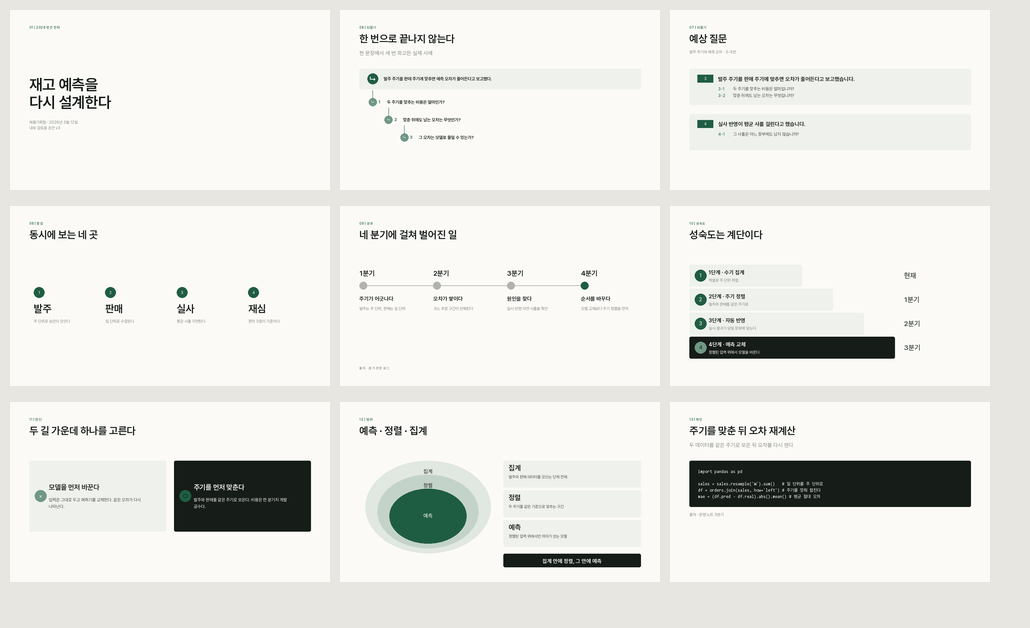
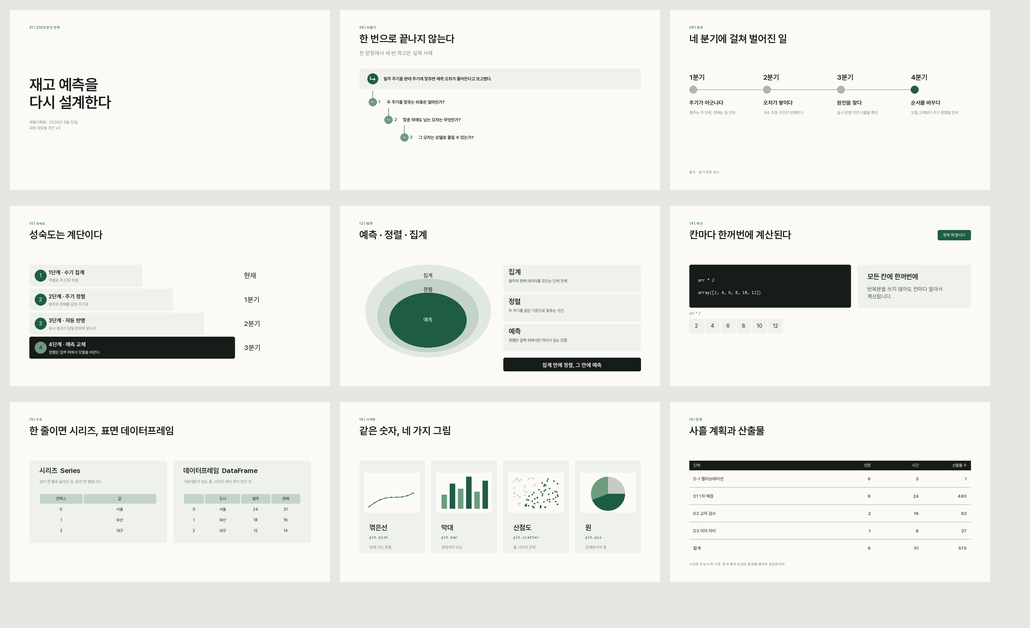
2차시 덱에서 배운 것 — code_explain · cellgrid · gallery · 활동 칩
사용자가 만족한 2차시 덱(38장)을 구조 분류해 없던 패턴 셋을 가져왔다.

code_explain (19쪽 외 12장) — 코드 가르치는 장의 주력
- 왼쪽 어두운 판에 고정폭 코드, 오른쪽 tint 판에 요지 + 사람 말 설명.
  코드만 보여 주면 학생이 무엇을 봐야 할지 모른다
- 두 판을 같은 높이로 맞춘다. 코드가 짧아도 설명 판이 혼자 뜨지 않게
- 아래 cells 로 배열 칸(43pt 정사각, step 47.5)을 깔면 변화가 눈에 보인다

cellgrid (23쪽) — 자료구조를 칸으로 그려 가르친다
- 표를 '보여 주는' table 과 다르다. 구조를 '설명하는' 그림이라
  머리 칸만 진한 톤(accent_mid)으로 띄우고 나머지는 tint 로 둔다
- 칸 높이 28, 사이 4 (실측 step 32.4). 열 너비는 내용 비율로 준다

gallery (30쪽) — 같은 것을 여러 방식으로
- 한 칸 = 그림 + 이름 + 코드 + 한 줄 설명. 패널 194x284, 사이 20, 그림 높이 121
- "개념 하나 + 시각 자료 하나" 원칙을 n 칸으로 반복한 형태다

활동 칩 (kind:)
- 제목 줄 오른쪽에 붙는다. 눈썹이 '어느 장인지'라면 이건 '무엇을 하는 장인지'다

미리보기 버그 수정
- raster() 가 두 번 정의돼 뒤의 것이 앞을 덮고 있었다. 중복 제거
- 도형·그림에 생성 순서(seq)를 남기고 그 순서대로 그린다.
  전에는 그림을 먼저 깔고 도형을 나중에 그려 패널이 그림을 덮었다.
  image_full 의 판이 그림 위에 오는 것도 이 순서로 보장된다

레이아웃 21종. 예제 26장이 두 프로파일 모두에서 통과한다.

diff --git a/scripts/build.py b/scripts/build.py
@@ -92,6 +92,13 @@ class L:
         if sl.get("runner"):
             d.text(s, "micro", col_x(9), self.eyebrow_y, span_w(4), 15,
                    sl["runner"], color="muted", align="right", tag="runner")
+        if sl.get("kind"):
+            # 실습·활동 표시. 눈썹이 '어느 장인지'라면 이건 '무엇을 하는 장인지'다
+            SH = d.spec["shapes"]
+            w = block_w(sl["kind"], d.spec["styles"]["small"],
+                        d.spec["fonts"]["body"]) + 34
+            d.chip(s, content_r() - w, self.title_y + 4, w, SH["eyebrow_chip_h"],
+                   sl["kind"], color="accent", text_color="ground", style="small")
         if sl.get("title"):
             st = d.spec["styles"][title_style]
             t = self.balance(sl["title"], span_w(span), title_style)
@@ -685,6 +692,145 @@ def code(d, s, m, sl):
                color="muted", tag="caption")
 
 
+def code_explain(d, s, m, sl):
+    """코드 왼쪽, 설명 오른쪽. 2차시 덱의 주력 구성(16~27쪽)이다.
+
+    코드는 어두운 판에 고정폭으로, 설명은 tint 판에 사람 말로. 둘을 같은 높이로 맞춘다.
+    아래에 배열 칸(cells)을 두면 '무엇이 어떻게 바뀌는지'가 눈에 보인다.
+    """
+    g = L(d)
+    SH = d.spec["shapes"]
+    g.head(s, sl, span=12)
+    cw, ew = span_w(7), span_w(5)
+    cx, ex = col_x(1), col_x(8)
+
+    raw = [str(l) for l in (sl.get("code") or [])]
+    col = sl.get("comment_col", SH["code_comment_col"])
+    lines = []
+    for l in raw:
+        if "#" in l and not l.lstrip().startswith("#"):
+            h_, n_ = l.split("#", 1)
+            h_ = h_.rstrip()
+            lines.append(h_ + " " * max(1, col - dw(h_)) + "#" + n_)
+        else:
+            lines.append(l)
+    cst = d.spec["styles"]["code"]
+    widest = max((block_w(l, cst, d.spec["fonts"]["mono"]) for l in lines), default=0)
+    if widest > cw - SH["code_pad_x"] * 2:
+        warn(f"slide {d._slide_i}: 코드가 판을 넘는다 — 주석 칸을 줄이거나 줄을 나눠라")
+
+    eh_t = g.bh(sl.get("point", ""), ew - 60, "h2") if sl.get("point") else 0
+    eh_b = g.bh(sl.get("explain", ""), ew - 60, "lead") if sl.get("explain") else 0
+    ph = max(len(lines) * cst["size"] * cst["leading"] + SH["code_pad_y"] * 2,
+             eh_t + (12 + eh_b if eh_b else 0) + 44)
+    y = g.block
+    d.panel(s, cx, y, cw, ph, color="figure", radius=SH["panel_radius"])
+    d.text(s, "code", cx + SH["code_pad_x"], y + (ph - len(lines) * cst["size"]
+           * cst["leading"]) / 2, cw - SH["code_pad_x"] * 2,
+           len(lines) * cst["size"] * cst["leading"], lines, color="ground",
+           accent_paras=tuple(i for i, l in enumerate(lines) if l.lstrip().startswith("#")),
+           tag="code")
+    d.panel(s, ex, y, ew, ph, radius=SH["panel_radius"])
+    ty = y + (ph - (eh_t + (12 + eh_b if eh_b else 0))) / 2
+    if eh_t:
+        d.text(s, "h2", ex + 30, ty, ew - 60, eh_t, sl["point"], tag="explain-point")
+    if eh_b:
+        d.text(s, "lead", ex + 30, ty + eh_t + 12, ew - 60, eh_b, sl["explain"],
+               color="ink2", tag="explain-body")
+
+    cells = sl.get("cells") or []
+    if cells:
+        cy = y + ph + 34
+        if sl.get("cells_label"):
+            d.text(s, "small", cx, cy - 26, span_w(6), 20, sl["cells_label"],
+                   color="muted", tag="cells-label")
+        cs, gp = SH["chipcell"], SH["chipcell_gap"]
+        for i, v in enumerate(cells[:14]):
+            d.chip(s, cx + i * (cs + gp), cy, cs, cs, str(v),
+                   color="accent_tint", text_color="figure", style="lead")
+
+
+def cellgrid(d, s, m, sl):
+    """자료구조를 칸으로 그려 가르친다. 2차시 23쪽 — 시리즈와 데이터프레임.
+
+    표를 '보여 주는' table 과 다르다. 이건 구조를 '설명하는' 그림이라
+    머리 칸만 진한 톤으로 띄우고 나머지는 tint 로 둔다.
+    """
+    g = L(d)
+    SH = d.spec["shapes"]
+    g.head(s, sl, span=12)
+    blocks = (sl.get("blocks") or [])[:2]
+    if not blocks:
+        return
+    n = len(blocks)
+    pw = (span_w(12) - 20) / n if n > 1 else span_w(12)
+    ch, gp = SH["cell_h"], SH["cell_gap"]
+    maxrows = max(len(b.get("rows") or []) for b in blocks)
+    ph = 44 + 26 + 24 + (maxrows + 1) * (ch + gp) + 24
+    y = g.block
+    for k, b in enumerate(blocks):
+        x = col_x(1) + k * (pw + 20)
+        d.panel(s, x, y, pw, ph, radius=SH["panel_radius"])
+        d.text(s, "h2", x + 30, y + 16, pw - 60, 30, b.get("title", ""), tag="cg-title")
+        if b.get("desc"):
+            d.text(s, "small", x + 30, y + 54, pw - 60, 20, b["desc"],
+                   color="muted", tag="cg-desc")
+        heads = b.get("headers") or []
+        rows = b.get("rows") or []
+        ncol = max(len(heads), max((len(r) for r in rows), default=0))
+        if not ncol:
+            continue
+        inner = pw - 64
+        widths = b.get("widths") or [1] * ncol
+        tot = sum(widths)
+        ws = [inner * w / tot - gp * (ncol - 1) / ncol for w in widths]
+        gy = y + 100
+        for j, hcell in enumerate(heads[:ncol]):
+            gx = x + 32 + sum(ws[:j]) + gp * j
+            d.chip(s, gx, gy, ws[j], ch, str(hcell), color="accent_mid",
+                   text_color="figure", style="small", radius=3)
+        for i, row in enumerate(rows):
+            gy2 = gy + (i + 1) * (ch + gp)
+            for j, cell in enumerate(row[:ncol]):
+                gx = x + 32 + sum(ws[:j]) + gp * j
+                d.chip(s, gx, gy2, ws[j], ch, str(cell), color="accent_tint",
+                       text_color="figure", style="small", radius=3)
+
+
+def gallery(d, s, m, sl):
+    """같은 것을 여러 방식으로 보여 주는 장. 2차시 30쪽 — 네 가지 그래프.
+
+    한 칸 = 그림 하나 + 이름 + 코드 + 한 줄 설명. 개념 하나에 시각 자료 하나라는
+    원칙을 n 칸으로 반복한 것이다.
+    """
+    g = L(d)
+    SH = d.spec["shapes"]
+    g.head(s, sl, span=12)
+    items = (sl.get("items") or [])[:4]
+    n = len(items)
+    if not 2 <= n <= 4:
+        raise SystemExit(f"gallery 는 항목 2~4개만 지원한다 (받은 값: {n}).")
+    gap = SH["gallery_gap"]
+    pw = (span_w(12) - gap * (n - 1)) / n
+    imh = SH["gallery_img_h"]
+    ph = 36 + imh + 30 + 26 + 22 + 22 + 20
+    y = g.block
+    for i, it in enumerate(items):
+        x = col_x(1) + i * (pw + gap)
+        d.panel(s, x, y, pw, ph, radius=SH["panel_radius"])
+        if it.get("image"):
+            d.picture(s, it["image"], x + 14, y + 36, pw - 28, imh,
+                      it.get("fit", "contain"), tag="gallery-img")
+        ty = y + 36 + imh + 30
+        d.text(s, "h2", x + 30, ty, pw - 60, 26, it.get("title", ""), tag="gallery-title")
+        if it.get("code"):
+            d.text(s, "small", x + 30, ty + 34, pw - 60, 20, it["code"],
+                   font_key="mono", color="accent", tag="gallery-code")
+        if it.get("body"):
+            d.text(s, "small", x + 30, ty + 64, pw - 60, 20, it["body"],
+                   color="muted", tag="gallery-body")
+
+
 def table(d, s, m, sl):
     T = d.spec["table"]
     g = L(d)
@@ -766,7 +912,8 @@ LAYOUTS = {"cover": cover, "closing": closing, "section": section, "chain": chai
            "statement": statement, "two_col": two_col, "cards": cards,
            "panel_list": panel_list, "card_grid": card_grid,
            "timeline": timeline, "stair": stair, "compare": compare, "nest": nest,
-           "code": code,
+           "code": code, "code_explain": code_explain,
+           "cellgrid": cellgrid, "gallery": gallery,
            "data": data, "quote": quote, "table": table,
            "image_split": image_split, "image_full": image_full}
 INVERTED = {"section", "closing"}

diff --git a/scripts/deckkit.py b/scripts/deckkit.py
@@ -384,6 +384,7 @@ class Deck:
         self.manifest: list[dict] = []
         self.shapes: list[dict] = []
         self.images: list[dict] = []
+        self._seq = 0
         self._tmpdir = os.path.join(os.environ.get("TMPDIR", "/tmp"),
                                     f"ppt-deck-{os.getpid()}")
         self.grounds: dict[int, str] = {}
@@ -420,8 +421,9 @@ class Deck:
         sh.line.fill.background()
         sh.shadow.inherit = False
         sh.text_frame.text = ""
+        self._seq += 1
         self.shapes.append(dict(slide=self._slide_i, x=x, y=y, w=w, h=h,
-                                color=self.c(color), kind=kind))
+                                color=self.c(color), kind=kind, seq=self._seq))
         return sh
 
     def panel(self, s, x, y, w, h, color="accent_tint", radius=5.0):
@@ -435,8 +437,9 @@ class Deck:
         sh.fill.solid(); sh.fill.fore_color.rgb = RGBColor.from_string(self.c(color))
         sh.line.fill.background(); sh.shadow.inherit = False
         sh.text_frame.text = ""
+        self._seq += 1
         self.shapes.append(dict(slide=self._slide_i, x=x, y=y, w=w, h=h,
-                                color=self.c(color), kind="panel", radius=radius))
+                                color=self.c(color), seq=self._seq, kind="panel", radius=radius))
         return sh
 
     def chip(self, s, x, y, w, h, text="", color="accent", text_color="ground",
@@ -450,8 +453,9 @@ class Deck:
         sh.fill.solid(); sh.fill.fore_color.rgb = RGBColor.from_string(self.c(color))
         sh.line.fill.background(); sh.shadow.inherit = False
         sh.text_frame.text = ""
+        self._seq += 1
         self.shapes.append(dict(slide=self._slide_i, x=x, y=y, w=w, h=h,
-                                color=self.c(color), kind="chip", radius=radius))
+                                color=self.c(color), seq=self._seq, kind="chip", radius=radius))
         if text:
             self.text(s, style, x, y, w, h, str(text), color=text_color,
                       align="center", anchor="middle", exact_center=True,
@@ -471,8 +475,9 @@ class Deck:
         sh.fill.solid(); sh.fill.fore_color.rgb = RGBColor.from_string(self.c(color))
         sh.line.fill.background(); sh.shadow.inherit = False
         sh.text_frame.text = ""
+        self._seq += 1
         self.shapes.append(dict(slide=self._slide_i, x=x, y=y, w=d, h=d,
-                                color=self.c(color), kind=kind))
+                                color=self.c(color), kind=kind, seq=self._seq))
         if glyph:
             # 박스를 원과 정확히 같은 사각형으로 두고 세로 중앙 앵커에 맡긴다.
             # Pretendard 는 라인박스 중심(0.3555em)과 글리프 잉크 중심(0.3535em)이
@@ -488,8 +493,9 @@ class Deck:
         sh.fill.solid(); sh.fill.fore_color.rgb = RGBColor.from_string(self.c(color))
         sh.line.fill.background(); sh.shadow.inherit = False
         sh.text_frame.text = ""
+        self._seq += 1
         self.shapes.append(dict(slide=self._slide_i, x=x, y=y, w=w, h=h,
-                                color=self.c(color), kind="ring"))
+                                color=self.c(color), seq=self._seq, kind="ring"))
         return sh
 
     def connector(self, s, x, y, h, w=1.0, color="accent_soft"):
@@ -559,8 +565,9 @@ class Deck:
         tmp = os.path.join(self._tmpdir, f"img{len(self.images):03d}.png")
         im.save(tmp)
         s.shapes.add_picture(tmp, Pt(dx), Pt(dy), Pt(dw), Pt(dh))
+        self._seq += 1
         self.images.append(dict(slide=self._slide_i, x=dx, y=dy, w=dw, h=dh,
-                                src=tmp, tag=tag))
+                                src=tmp, tag=tag, seq=self._seq))
         return dx, dy, dw, dh
 
     # ---- 텍스트 --------------------------------------------------------

diff --git a/scripts/svgpreview.py b/scripts/svgpreview.py
@@ -135,6 +135,12 @@ def _fontfile(name):
     return _m._find(stem)
 
 
+def _fontfile(name):
+    import metrics as _m
+    stem = _m.WANT.get(name, "Pretendard-Regular")
+    return _m._find(stem)
+
+
 def raster(man, idx, scale=1.0):
     """SVG와 같은 좌표계를 PIL로 직접 그린다. 실제 Pretendard TTF를 써서
     글리프·줄바꿈·자간이 PowerPoint와 같은 메트릭으로 나온다."""
@@ -171,26 +177,28 @@ def raster(man, idx, scale=1.0):
             dr.text((cx, y * scale), ch, font=f, fill="#" + color, anchor="ls")
             cx += dr.textlength(ch, font=f) + trk * scale
 
-    for im_ in man.get("images", []):
-        if im_["slide"] != idx or not os.path.exists(im_["src"]):
+    # 도형과 그림을 만든 순서대로 그린다 — 순서를 무시하면 패널이 그림을 덮는다
+    layer = [("img", z) for z in man.get("images", []) if z["slide"] == idx] + \
+            [("sh", z) for z in man.get("shapes", []) if z["slide"] == idx]
+    layer.sort(key=lambda t: t[1].get("seq", 0))
+    for kindtag, z in layer:
+        if kindtag == "img":
+            if not os.path.exists(z["src"]):
+                continue
+            ph = Image.open(z["src"]).convert("RGB").resize(
+                (max(1, round(z["w"] * scale)), max(1, round(z["h"] * scale))), Image.LANCZOS)
+            img.paste(ph, (round(z["x"] * scale), round(z["y"] * scale)))
             continue
-        ph = Image.open(im_["src"]).convert("RGB").resize(
-            (max(1, round(im_["w"] * scale)), max(1, round(im_["h"] * scale))), Image.LANCZOS)
-        img.paste(ph, (round(im_["x"] * scale), round(im_["y"] * scale)))
-
-    for sh in man.get("shapes", []):
-        if sh["slide"] != idx:
-            continue
-        box = [sh["x"] * scale, sh["y"] * scale,
-               (sh["x"] + sh["w"]) * scale, (sh["y"] + sh["h"]) * scale]
-        kind = sh.get("kind")
-        if kind in ("badge", "node", "ring"):
-            dr.ellipse(box, fill="#" + sh["color"])
-        elif kind == "panel":
-            dr.rounded_rectangle(box, radius=sh.get("radius", 5) * scale,
-                                 fill="#" + sh["color"])
+        box = [z["x"] * scale, z["y"] * scale,
+               (z["x"] + z["w"]) * scale, (z["y"] + z["h"]) * scale]
+        k = z.get("kind")
+        if k in ("badge", "node", "ring"):
+            dr.ellipse(box, fill="#" + z["color"])
+        elif k in ("panel", "chip"):
+            dr.rounded_rectangle(box, radius=z.get("radius", 5) * scale,
+                                 fill="#" + z["color"])
         else:
-            dr.rectangle(box, fill="#" + sh["color"])
+            dr.rectangle(box, fill="#" + z["color"])
 
     for b in man["boxes"]:
         if b["slide"] != idx:

diff --git a/scripts/lint_deck.py b/scripts/lint_deck.py
@@ -84,7 +84,8 @@ def main(path):
                 # 계단이 관계를 나타내는 장치이기 때문이다 — 사용자 덱도 82.1/129.6/177.1 이다.
                 if b["tag"].startswith(("chain-", "badge-", "panel-", "chip-",
                                         "card-", "stair-", "compare-", "nest-",
-                                        "node-", "ring-", "code")) or \
+                                        "node-", "ring-", "code", "gallery-",
+                                        "cg-", "explain-", "cells-")) or \
                    b["tag"] in ("full-title", "caption", "ledger-index") or \
                    (b["tag"] == "eyebrow" and b["y"] > 300):
                     continue

diff --git a/SKILL.md b/SKILL.md
@@ -1,6 +1,6 @@
 ---
 name: ppt-deck
-version: "5.1.0"
+version: "6.0.0"
 description: AI가 찍어낸 티가 나지 않는 .pptx 발표자료를 만드는 스킬. 디자인 토큰(색 3개·폰트·타입스케일·그리드)을 먼저 확정하고 레이아웃 8종(표지/섹션/스테이트먼트/2단/데이터/인용/표/클로징)을 리듬으로 배치해, python-pptx로 좌표 단위까지 통제된 한글 슬라이드를 생성한다. 기본 테마색·Calibri·그림자·둥근 카드·기계적 불릿 같은 "AI PPT의 지문"을 린터가 사전 차단하고, 빌드 후 PNG로 렌더해 넘침·정렬을 눈으로 검수한다. 트리거 — "PPT 만들어줘", "발표자료 만들어줘", "슬라이드 만들어", "pptx 만들어", "PPT 티 안 나게", "AI 티 안 나는 발표자료", "덱 만들어줘", "강의자료 슬라이드", "제안서 PPT", "/ppt-deck". 후속 작업 — "팔레트 바꿔줘", "이 슬라이드만 고쳐", "발표용을 읽기용으로", "슬라이드 추가" 도 모두 이 스킬. 기존 .pptx에서 텍스트만 추출하거나 남의 템플릿을 그대로 채우는 작업은 anthropic-skills:pptx 쪽이 맞다.
 ---
 
@@ -194,6 +194,21 @@ Pretendard 는 라인박스 중심(0.3555em)과 글리프 잉크 중심(0.3535em
 
 **8. 대담함은 한 곳에만 쓴다.** 한 장에 시각적 주인공은 하나다. 나머지는 조용히 둔다.
 샤넬의 조언 — 나가기 전에 거울을 보고 액세서리 하나를 뺀다.
+
+## 활동 표시 (`kind:`)
+
+제목 줄 오른쪽에 붙는 칩이다. 눈썹이 "어느 장인지"라면 이건 **"무엇을 하는 장인지"**다 —
+`kind: "함께 해 봅시다"` 처럼. 실습·활동 장에만 쓴다. 모든 장에 붙이면 의미가 없어진다.
+
+## 코드를 가르치는 장 (`code_explain`)
+
+2차시 덱에서 12장이 이 구성이었다. 코드만 보여 주면 학생이 무엇을 봐야 할지 모른다.
+
+- **왼쪽** 어두운 판 + 고정폭 코드
+- **오른쪽** tint 판 + 한 줄 요지(`point`) + 사람 말 설명(`explain`)
+- **아래** `cells` 로 배열 칸을 깔면 "무엇이 어떻게 바뀌는지"가 눈에 보인다
+
+두 판은 **같은 높이**로 맞춘다. 코드가 짧아도 설명 판이 혼자 뜨지 않게.
 
 ## 이미지
 

diff --git a/README.md b/README.md
@@ -60,12 +60,12 @@ AI로 만든 PPT는 내용과 무관하게 알아봅니다. 원인은 대부분 
 <td width="50%"><img src="docs/section.png" alt="section"><br><code>section</code> · 장 구분, accent 전면 반전</td>
 </tr>
 <tr>
-<td><img src="docs/statement.png" alt="statement"><br><code>statement</code> · 주장 한 줄. 호흡을 끊는다</td>
+<td><img src="docs/cellgrid.png" alt="cellgrid"><br><code>cellgrid</code> · 자료구조를 칸으로 그려 가르친다</td>
 <td><img src="docs/data.png" alt="data"><br><code>data</code> · 히어로 1 + 보조 2의 비대칭 위계</td>
 </tr>
 <tr>
-<td><img src="docs/cards-ledger.png" alt="cards"><br><code>cards</code> · 항목 수가 구성을 정한다 (ledger = 3개)</td>
-<td><img src="docs/closing.png" alt="closing"><br><code>closing</code> · 반전 필드 + 정보 원장</td>
+<td><img src="docs/code-explain.png" alt="code_explain"><br><code>code_explain</code> · 코드 왼쪽, 설명 오른쪽, 배열 칸 아래</td>
+<td><img src="docs/gallery.png" alt="gallery"><br><code>gallery</code> · 같은 숫자를 여러 방식으로</td>
 </tr>
 <tr>
 <td colspan="2"><img src="docs/table.png" alt="table"><br><code>table</code> · 네이티브 표를 쓰지 않는다. 테마 표스타일의 줄무늬 채움과 전체 테두리가 가장 알아보기 쉬운 템플릿 지문이라 헤어라인으로 직접 그린다</td>
